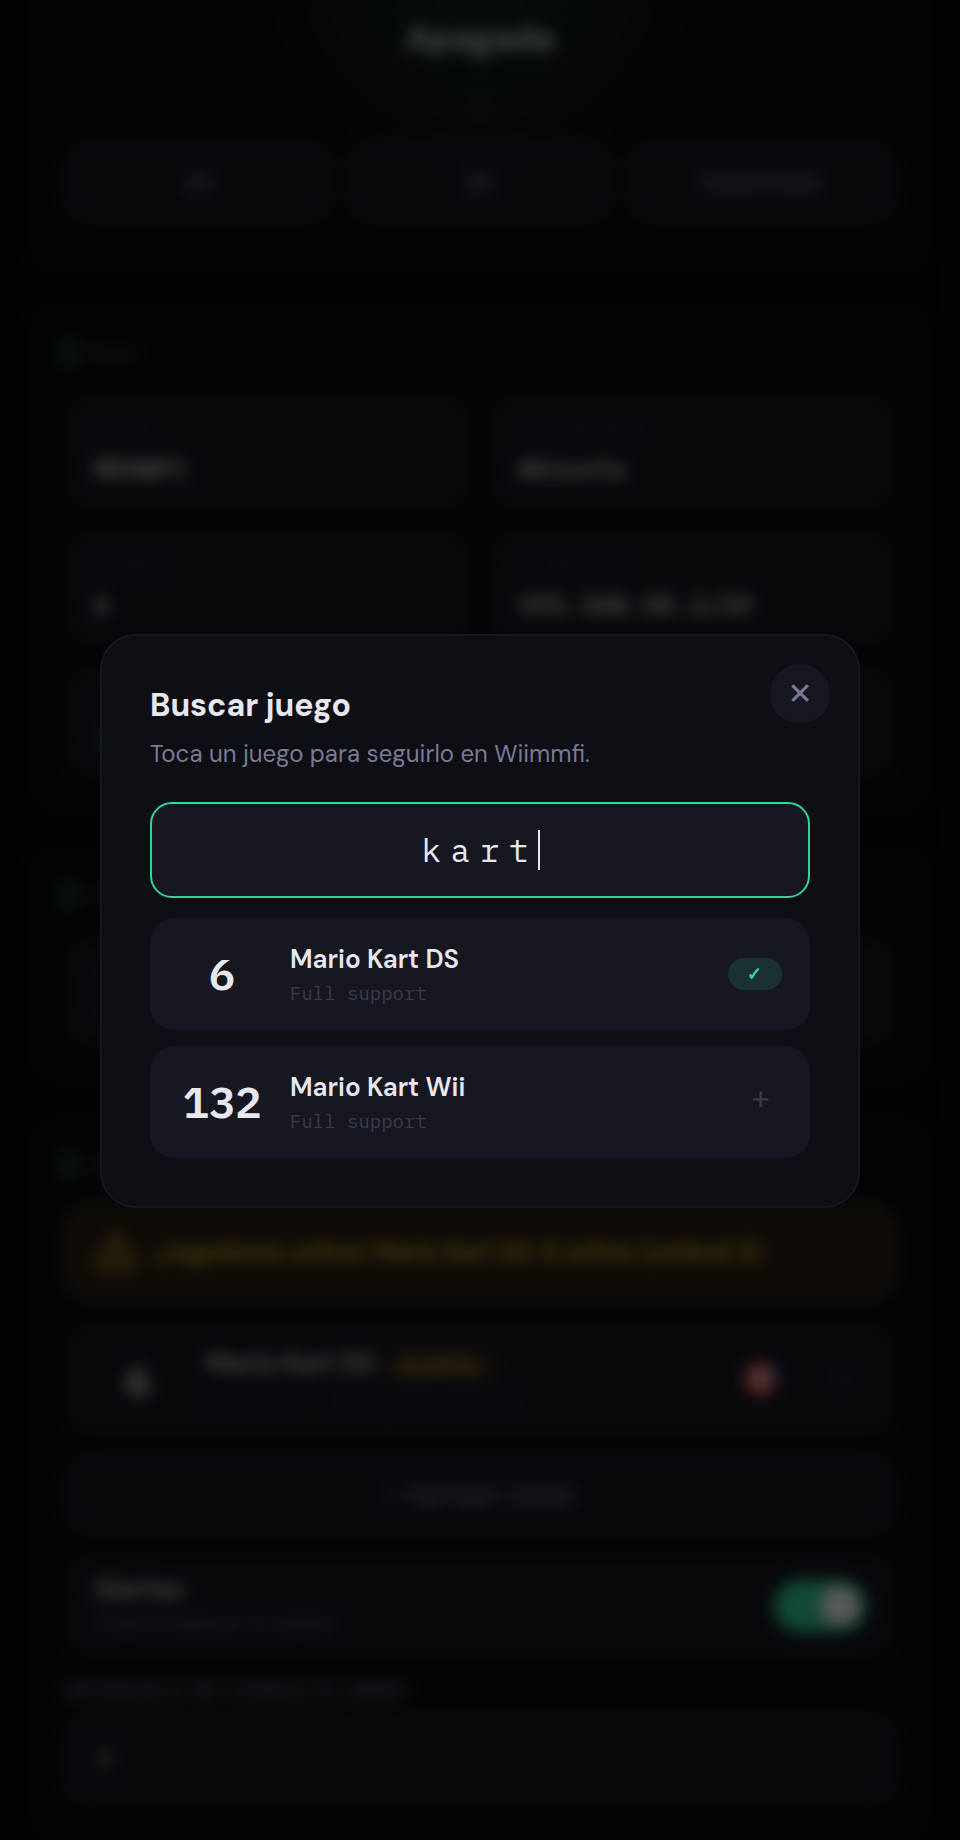
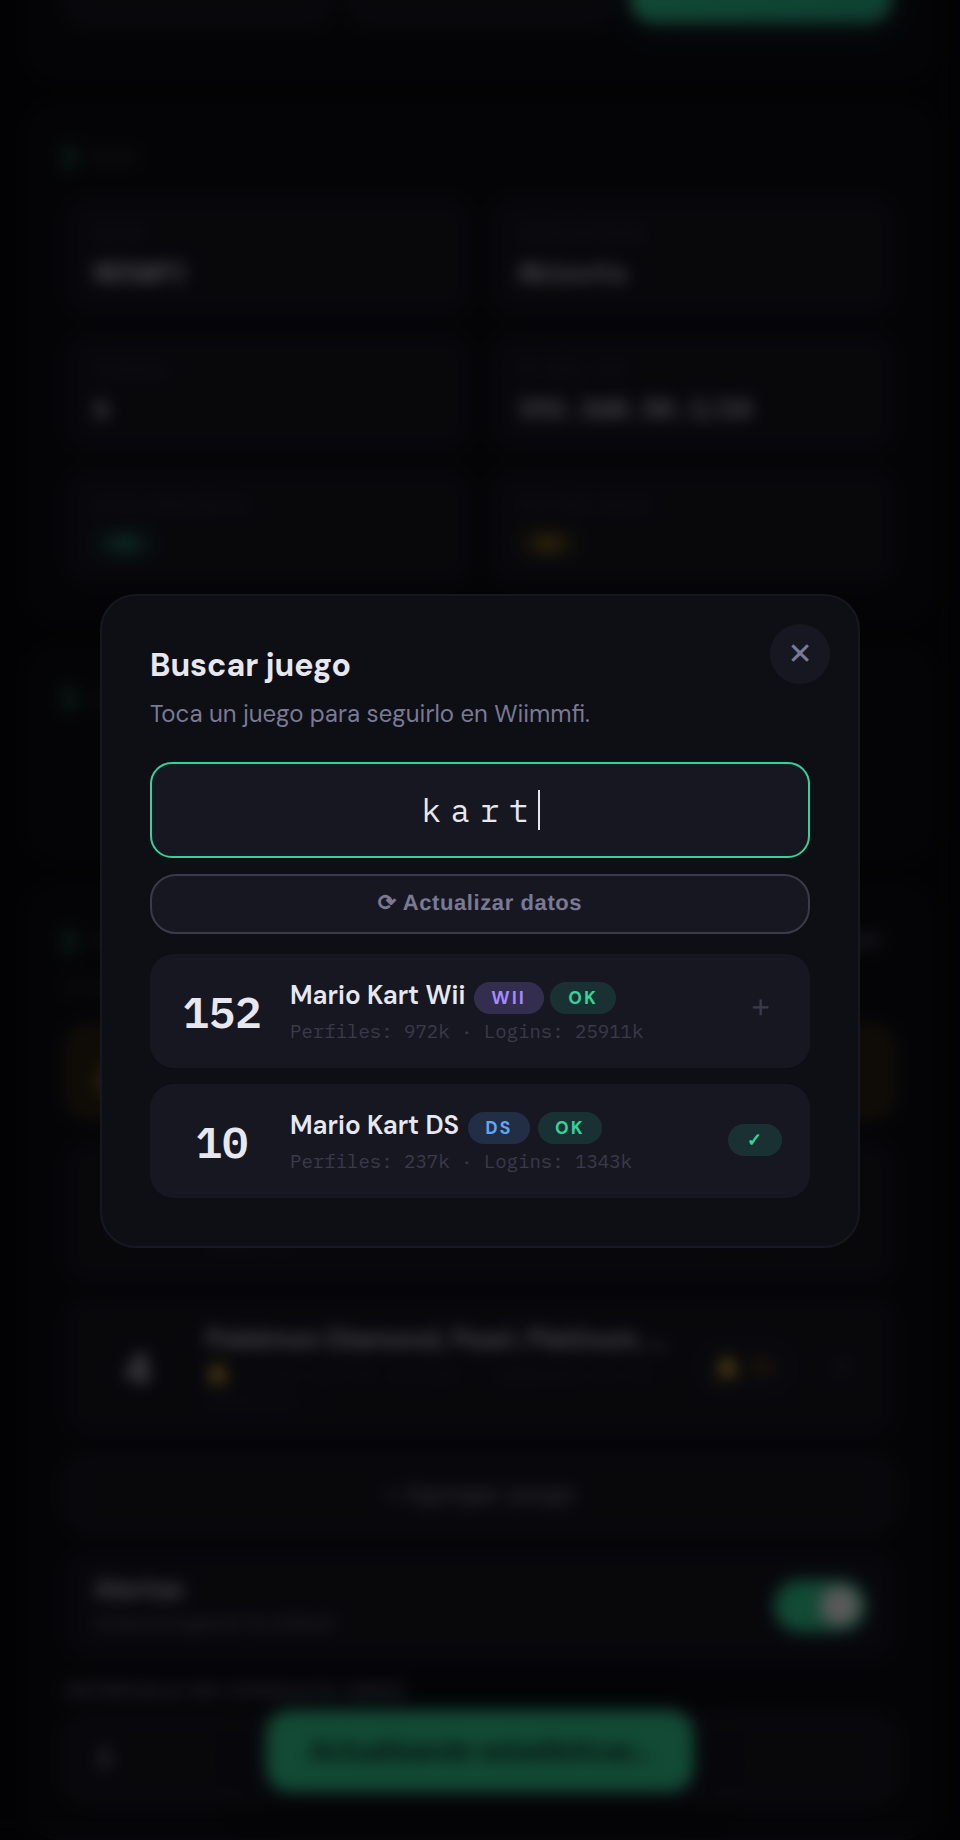
docs: README en español neutro, capturas actualizadas y guía de instalación con agente de IA

diff --git a/web/public/index.html b/web/public/index.html
@@ -819,7 +819,7 @@ function renderFavorites(st) {
     return '<div class="game">' +
       '<div class="cnt' + (g.onlineCount === null ? ' null' : '') + '" title="Jugadores online ahora">' + cnt + '</div>' +
       '<div class="ginfo"><div class="gnm">' + esc(g.name) + ' ' + over + '</div>' +
-      '<div class="gst">🔔 avisa con ' + g.threshold + '+ online · cambialo acá al lado →</div></div>' +
+      '<div class="gst">🔔 avisa con N+ online · cámbialo en el selector →</div></div>' +
       '<select class="alert-sel" onchange="setThreshold(\'' + g.id + '\', this.value)">' + thOpts(g.threshold) + '</select>' +
       '<button class="del" title="Quitar" onclick="delGame(\'' + g.id + '\')">✕</button>' +
       '</div>';

diff --git a/README.md b/README.md
@@ -19,7 +19,7 @@
   </tr>
   <tr>
     <td align="center"><b>Mis juegos</b> — favoritos con jugadores online y alerta</td>
-    <td align="center"><b>Selector</b> — buscá cualquier juego y seguílo</td>
+    <td align="center"><b>Selector</b> — busca cualquier juego y síguelo</td>
   </tr>
 </table>
 
@@ -48,6 +48,16 @@ sudo ./install.sh
 El instalador instala los paquetes (`hostapd`, `dnsmasq`, `iw`, `node`), crea el usuario `dswifi`, detecta las interfaces WiFi y LAN, copia todo a `/opt/ds-wifi` y arranca el servicio web.
 
 Abre **http://&lt;IP-del-servidor&gt;:3120**.
+
+### Instalación con un agente de IA (recomendado)
+
+Este README está escrito para que una IA de código lo ejecute por ti. Si usas **Claude Code**, **OpenCode**, **Codex** u otro agente similar, clona el proyecto, abre el agente dentro de la carpeta y pídele algo como:
+
+> «Lee el README de este proyecto e instala ds-wifi en esta máquina siguiendo la sección de instalación.»
+
+El agente se encarga de todo: instala las dependencias, ejecuta `install.sh`, verifica que los servicios quedaron activos y te devuelve la URL final. Si algo falla (permisos, interfaz de red distinta, paquete faltante), lo diagnostica y lo corrige sobre la marcha — algo que un script solo no puede hacer.
+
+> 💡 Funciona bien porque `install.sh` es idempotente: puede re-ejecutarse sin romper nada, y toda la configuración posterior (SSID, MACs, alertas) se hace desde la interfaz web, no editando archivos.
 
 ### Scraper de Wiimmfi (opcional)
 
